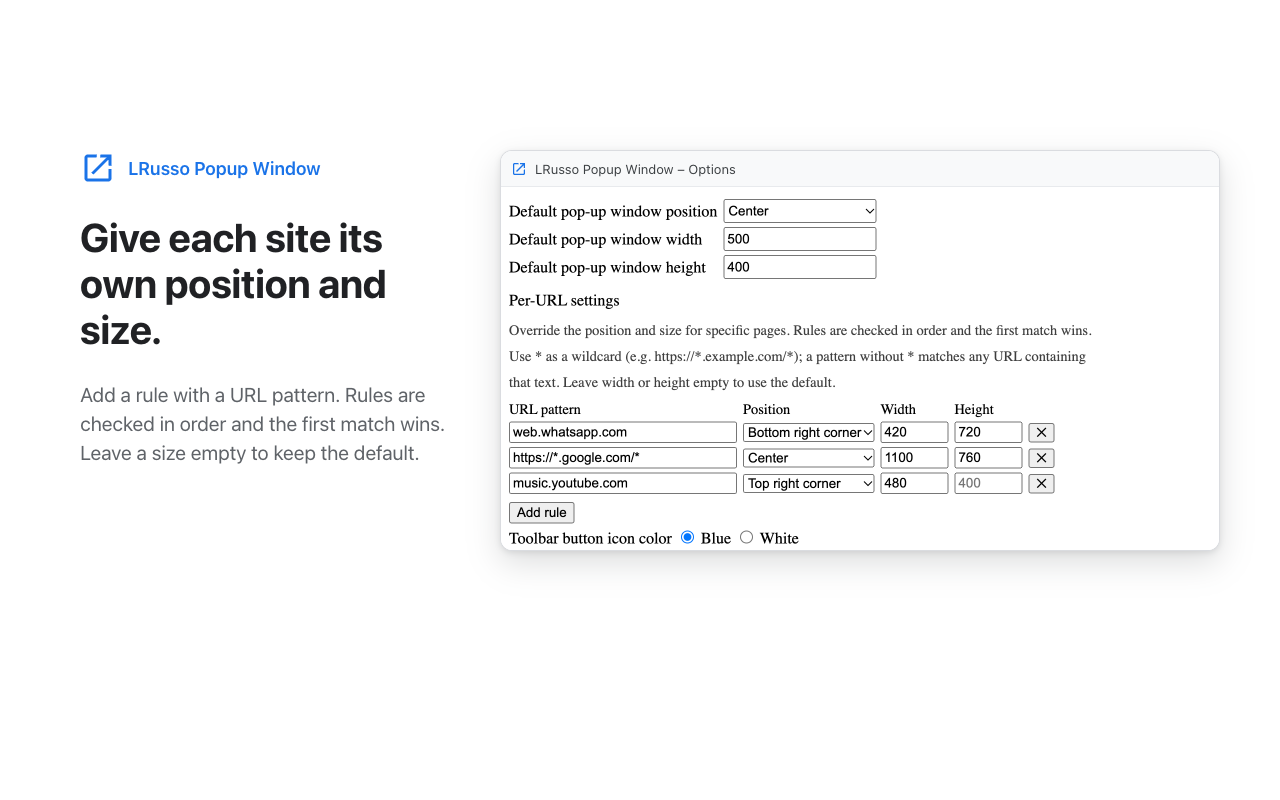
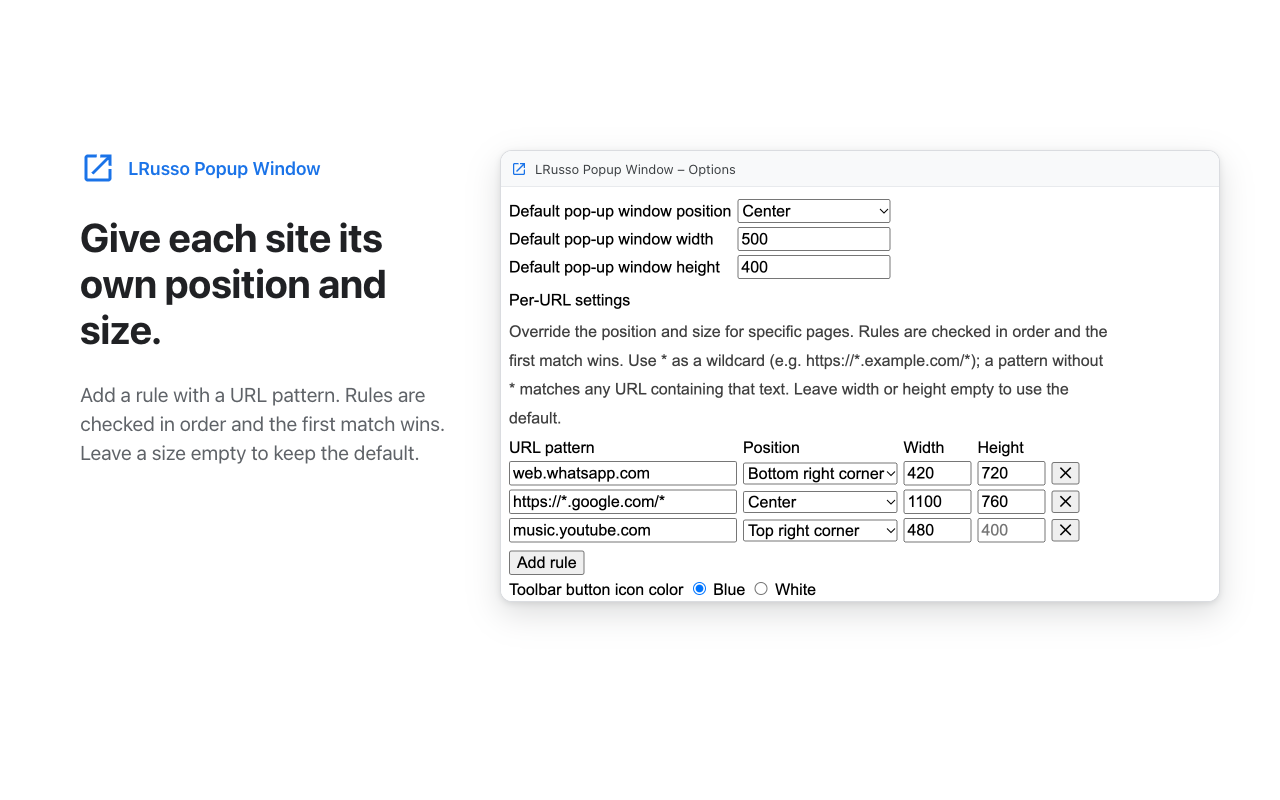
Use Arial at the page default size in the options page, follow the browser light or dark mode and update the options screenshot

Changed region(s): [[0.375, 0.25, 0.9375, 0.7812]]

diff --git a/src/options.css b/src/options.css
@@ -1,3 +1,19 @@
+/* Follow the browser's light or dark mode: Chrome passes its theme to the
+   embedded options page, and this switches the page and the form controls. */
+:root {
+  color-scheme: light dark;
+}
+
+/* Arial at the page's default size everywhere, form controls included (they
+   don't inherit the page font). */
+body,
+input,
+select,
+button {
+  font-family: Arial, sans-serif;
+  font-size: inherit;
+}
+
 .itemDiv {
   display: block;
   margin-top: 4px;
@@ -69,7 +85,6 @@ input:invalid {
 }
 
 .hint {
-  font-size: 0.9em;
   line-height: 1.8;
   opacity: 0.75;
   margin: 2px 0 6px 0;
@@ -90,7 +105,6 @@ table.urlRules {
 table.urlRules th {
   text-align: left;
   font-weight: normal;
-  font-size: 0.9em;
   padding: 0 6px 2px 0;
 }
 
